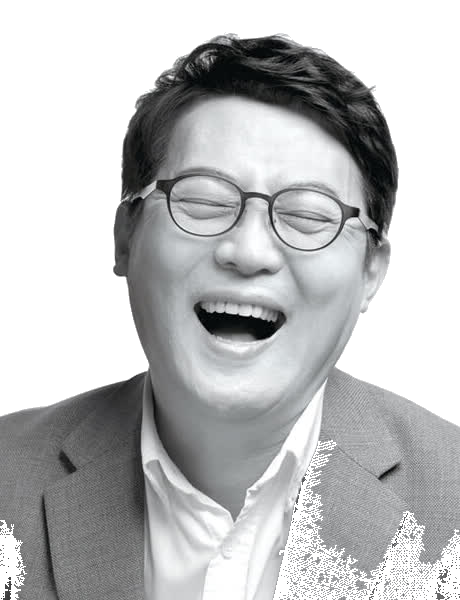
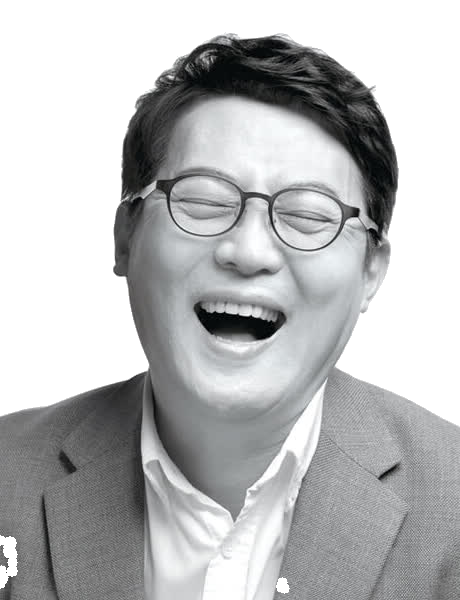
47/48/50/64~66번 슬라이드 레이아웃 및 이미지 보정
- 47번: 타이틀이 상단에 너무 붙어 있던 문제 수정 (여백 추가로 하단 이동)
- 48번: 회상 타이틀 위치를 지정된 위치로 조정
- 50번: 좌측 텍스트 영역 우측 이동, 김경일 교수 사진의 배경 제거 아티팩트(재킷 부분 깨짐) 알파 마스크 보정으로 복구
- 64~66번: '명확한 업무지시' 타이틀 위치를 64번 기준으로 통일 (섹션 상단 고정, 본문만 남은 공간에서 중앙 정렬)

Changed region(s): [[0.5783, 0.72, 1.0, 1.0], [0.0, 0.87, 0.0609, 1.0]]

diff --git a/platform/public/host/index.html b/platform/public/host/index.html
@@ -796,7 +796,7 @@ a:hover{color:var(--red-300)}
 <button type="button" data-build-start="1" onClick="{{ vid1Toggle }}" style="background:transparent;color:var(--text-muted);border:1px solid var(--border-hairline);border-radius:4px;padding:8px 18px;font-family:var(--font-display);font-weight:700;font-size:16px;letter-spacing:.1em;cursor:pointer">{{ vid1Btn }}</button>
 </section>
 
-<section data-label="기억력 TEST 계산" data-speaker-notes="이어서 간단한 뺄셈 3문항을 계산하게 한다." style="background-color:var(--bg-page);background-image:var(--texture-carbon);color:var(--text-primary);font-family:var(--font-core);padding:52px 72px;display:flex;flex-direction:column;align-items:center;justify-content:center;gap:44px" data-om-slide-id="rk-mem-03">
+<section data-label="기억력 TEST 계산" data-speaker-notes="이어서 간단한 뺄셈 3문항을 계산하게 한다." style="background-color:var(--bg-page);background-image:var(--texture-carbon);color:var(--text-primary);font-family:var(--font-core);padding:120px 72px 52px;display:flex;flex-direction:column;align-items:center;justify-content:center;gap:44px" data-om-slide-id="rk-mem-03">
 <div style="display:flex;align-items:center;justify-content:center;width:100%;border-bottom:1px solid var(--border-hairline);padding-bottom:16px"><span class="apex-eyebrow" style="font-size:27px;color:var(--grid-yellow)">기억력 TEST</span></div>
 <h2 style="margin:0;font-family:var(--font-display);font-weight:700;font-size:62px;line-height:1.1;text-align:center">이어서 계산해보세요</h2>
 <div style="display:flex;flex-direction:column;align-items:center;gap:28px;flex:1;justify-content:center">
@@ -806,9 +806,9 @@ a:hover{color:var(--red-300)}
 </div>
 </section>
 
-<section data-label="기억력 TEST 회상" data-speaker-notes="방금 본 단어를 회상시킨 뒤, 왜 특정 단어(창문)를 떠올리는지 질문한다." style="background-color:var(--bg-page);background-image:var(--texture-carbon);color:var(--text-primary);font-family:var(--font-core);padding:52px 72px;display:flex;flex-direction:column;justify-content:center;gap:40px" data-om-slide-id="rk-mem-04">
-<div style="display:flex;align-items:center;justify-content:center;border-bottom:1px solid var(--border-hairline);padding-bottom:16px"><span class="apex-eyebrow" style="font-size:27px;color:var(--grid-yellow)">기억력 TEST : 무엇을 회상하셨습니까?</span></div>
-<div style="display:grid;grid-template-columns:1fr 1.2fr;gap:56px;flex:1;align-items:center">
+<section data-label="기억력 TEST 회상" data-speaker-notes="방금 본 단어를 회상시킨 뒤, 왜 특정 단어(창문)를 떠올리는지 질문한다." style="background-color:var(--bg-page);background-image:var(--texture-carbon);color:var(--text-primary);font-family:var(--font-core);padding:52px 72px;display:flex;flex-direction:column;justify-content:flex-start;gap:40px" data-om-slide-id="rk-mem-04">
+<div style="display:flex;align-items:center;justify-content:center;border-bottom:1px solid var(--border-hairline);padding-bottom:16px;margin-top:230px"><span class="apex-eyebrow" style="font-size:27px;color:var(--grid-yellow)">기억력 TEST : 무엇을 회상하셨습니까?</span></div>
+<div style="display:grid;grid-template-columns:1fr 1.2fr;gap:56px;flex:1;align-items:center;align-content:center">
 <div style="display:flex;flex-direction:column;gap:14px;padding-left:80px">
 <span style="font-size:48px;color:var(--white)">문</span>
 <span style="font-size:48px;color:var(--white)">유리창</span>
@@ -831,7 +831,7 @@ a:hover{color:var(--red-300)}
 
 <section data-label="김경일 교수 인용" data-speaker-notes="영상 내용을 정리하며 김경일 교수의 메시지로 마무리." style="background:var(--bg-page);color:var(--text-primary);font-family:var(--font-core);padding:52px 72px;display:flex;flex-direction:column;justify-content:center;gap:32px" data-om-slide-id="rk-mem-06">
 <div style="display:grid;grid-template-columns:1fr 420px;gap:56px;flex:1;align-items:center">
-<div style="display:flex;flex-direction:column;gap:24px">
+<div style="display:flex;flex-direction:column;gap:24px;padding-left:80px">
 <h2 style="margin:0;font-family:var(--font-display);font-weight:700;font-size:44px;line-height:1.3">김경일 교수가 말하는 기억이란?</h2>
 <span class="apex-num apex-skew" style="display:inline-block;font-size:96px;color:var(--grid-yellow);line-height:1">“</span>
 <p style="margin:0;font-family:var(--font-display);font-weight:700;font-size:68px;line-height:1.3;color:var(--white)">자체 편집 후 <br>남은 결과이다.</p>
@@ -1028,23 +1028,27 @@ a:hover{color:var(--red-300)}
 </div>
 </section>
 
-<section class="apex-light" data-label="작업기억" data-speaker-notes="PREP의 P(요점)를 짧게 유지해야 하는 이유: 작업기억의 한계." style="background:var(--bg-page);color:var(--text-primary);font-family:var(--font-core);padding:52px 72px;display:flex;flex-direction:column;justify-content:center;gap:36px" data-om-slide-id="rk-prep-09">
+<section class="apex-light" data-label="작업기억" data-speaker-notes="PREP의 P(요점)를 짧게 유지해야 하는 이유: 작업기억의 한계." style="background:var(--bg-page);color:var(--text-primary);font-family:var(--font-core);padding:52px 72px;display:flex;flex-direction:column;justify-content:flex-start;gap:36px" data-om-slide-id="rk-prep-09">
 <div style="display:flex;align-items:center;justify-content:space-between;border-bottom:1px solid var(--border-hairline);padding-bottom:16px"><span class="apex-eyebrow" style="font-size:27px;color:var(--text-muted)">명확한 업무지시</span></div>
+<div style="flex:1;display:flex;flex-direction:column;justify-content:center;gap:36px">
 <div style="display:flex;justify-content:center"><div style="width:100%;max-width:900px;background:var(--grid-azure);padding:14px;display:flex;gap:14px;align-items:center"><div style="flex:1;background:#fff;padding:20px;text-align:center"><span class="apex-num apex-skew" style="display:inline-block;font-size:56px;color:#06070A">작업기억</span></div><span class="apex-eyebrow" style="font-size:24px;color:#fff">SEARCH</span></div></div>
 <div style="display:flex;flex-direction:column;gap:16px;text-align:center">
 <p style="margin:0;font-size:48px;line-height:1.5;color:var(--text-primary)">작업 기억은 정보를 즉시 저장할 수 있는 제한된 능력을 가진 인지 시스템</p>
 <p style="margin:0;font-size:48px;line-height:1.5;color:var(--grid-azure)">일반적으로 4~7개의 기억을 저장할 수 있다</p>
 </div>
+</div>
 </section>
 
-<section class="apex-light" data-label="R 이유 사례" data-speaker-notes="PREP의 R(이유)을 도서관 복사기 실험 사례로 설명." style="background:var(--bg-page);color:var(--text-primary);font-family:var(--font-core);padding:52px 72px;display:flex;flex-direction:column;justify-content:center;gap:28px" data-om-slide-id="rk-prep-10">
+<section class="apex-light" data-label="R 이유 사례" data-speaker-notes="PREP의 R(이유)을 도서관 복사기 실험 사례로 설명." style="background:var(--bg-page);color:var(--text-primary);font-family:var(--font-core);padding:52px 72px;display:flex;flex-direction:column;justify-content:flex-start;gap:28px" data-om-slide-id="rk-prep-10">
 <div style="display:flex;align-items:center;justify-content:space-between;border-bottom:1px solid var(--border-hairline);padding-bottom:16px"><span class="apex-eyebrow" style="font-size:27px;color:var(--text-muted)">명확한 업무지시</span></div>
+<div style="flex:1;display:flex;flex-direction:column;justify-content:center;gap:28px">
 <p style="margin:0;font-size:42px;line-height:1.6;color:var(--text-body);text-align:center">도서관에서 복사하기 위해 줄을 서서 기다리는 사람들을 대상으로<br>늦게 온 사람이 앞사람의 양보를 얻어내는 상황</p>
 <p style="margin:0;font-size:26px;color:var(--text-muted);text-align:center">미국의 하버드 대학 심리학자 교수 Ellen Langer (에렌 랭거)</p>
 <p style="margin:0;font-family:var(--font-display);font-weight:700;font-size:62px;color:var(--text-primary);text-align:center">“순서를 양보할 수 있도록 <span style="color:var(--grid-teal)">설득</span> 하라.”</p>
+</div>
 </section>
 
-<section class="apex-light" data-label="R 이유 실험 결과" data-speaker-notes="이유를 붙였을 때 양보 성공률이 크게 오른다는 실험 결과 3가지 화법 비교." style="background:var(--bg-page);color:var(--text-primary);font-family:var(--font-core);padding:52px 72px;display:flex;flex-direction:column;justify-content:center;gap:22px" data-om-slide-id="rk-prep-11">
+<section class="apex-light" data-label="R 이유 실험 결과" data-speaker-notes="이유를 붙였을 때 양보 성공률이 크게 오른다는 실험 결과 3가지 화법 비교." style="background:var(--bg-page);color:var(--text-primary);font-family:var(--font-core);padding:52px 72px;display:flex;flex-direction:column;justify-content:flex-start;gap:22px" data-om-slide-id="rk-prep-11">
 <div style="display:flex;align-items:center;justify-content:space-between;border-bottom:1px solid var(--border-hairline);padding-bottom:16px"><span class="apex-eyebrow" style="font-size:27px;color:var(--text-muted)">명확한 업무지시</span></div>
 <div style="display:flex;flex-direction:column;justify-content:center;gap:2px;flex:1">
 <div style="background:var(--surface-card);border-left:6px solid var(--grid-teal);display:flex;gap:28px;padding:26px 34px;align-items:center"><span class="apex-num apex-skew" style="display:inline-block;font-size:40px;color:var(--grid-teal);width:60px">01</span><p style="margin:0;flex:1;font-size:38px;line-height:1.5;color:var(--text-primary)">“죄송합니다. 제가 먼저 하면 안될까요? 왜냐하면 바쁜 일이 있거든요.”</p><span class="apex-num apex-skew" style="display:inline-block;font-size:48px;color:var(--grid-teal)">94%</span></div>
